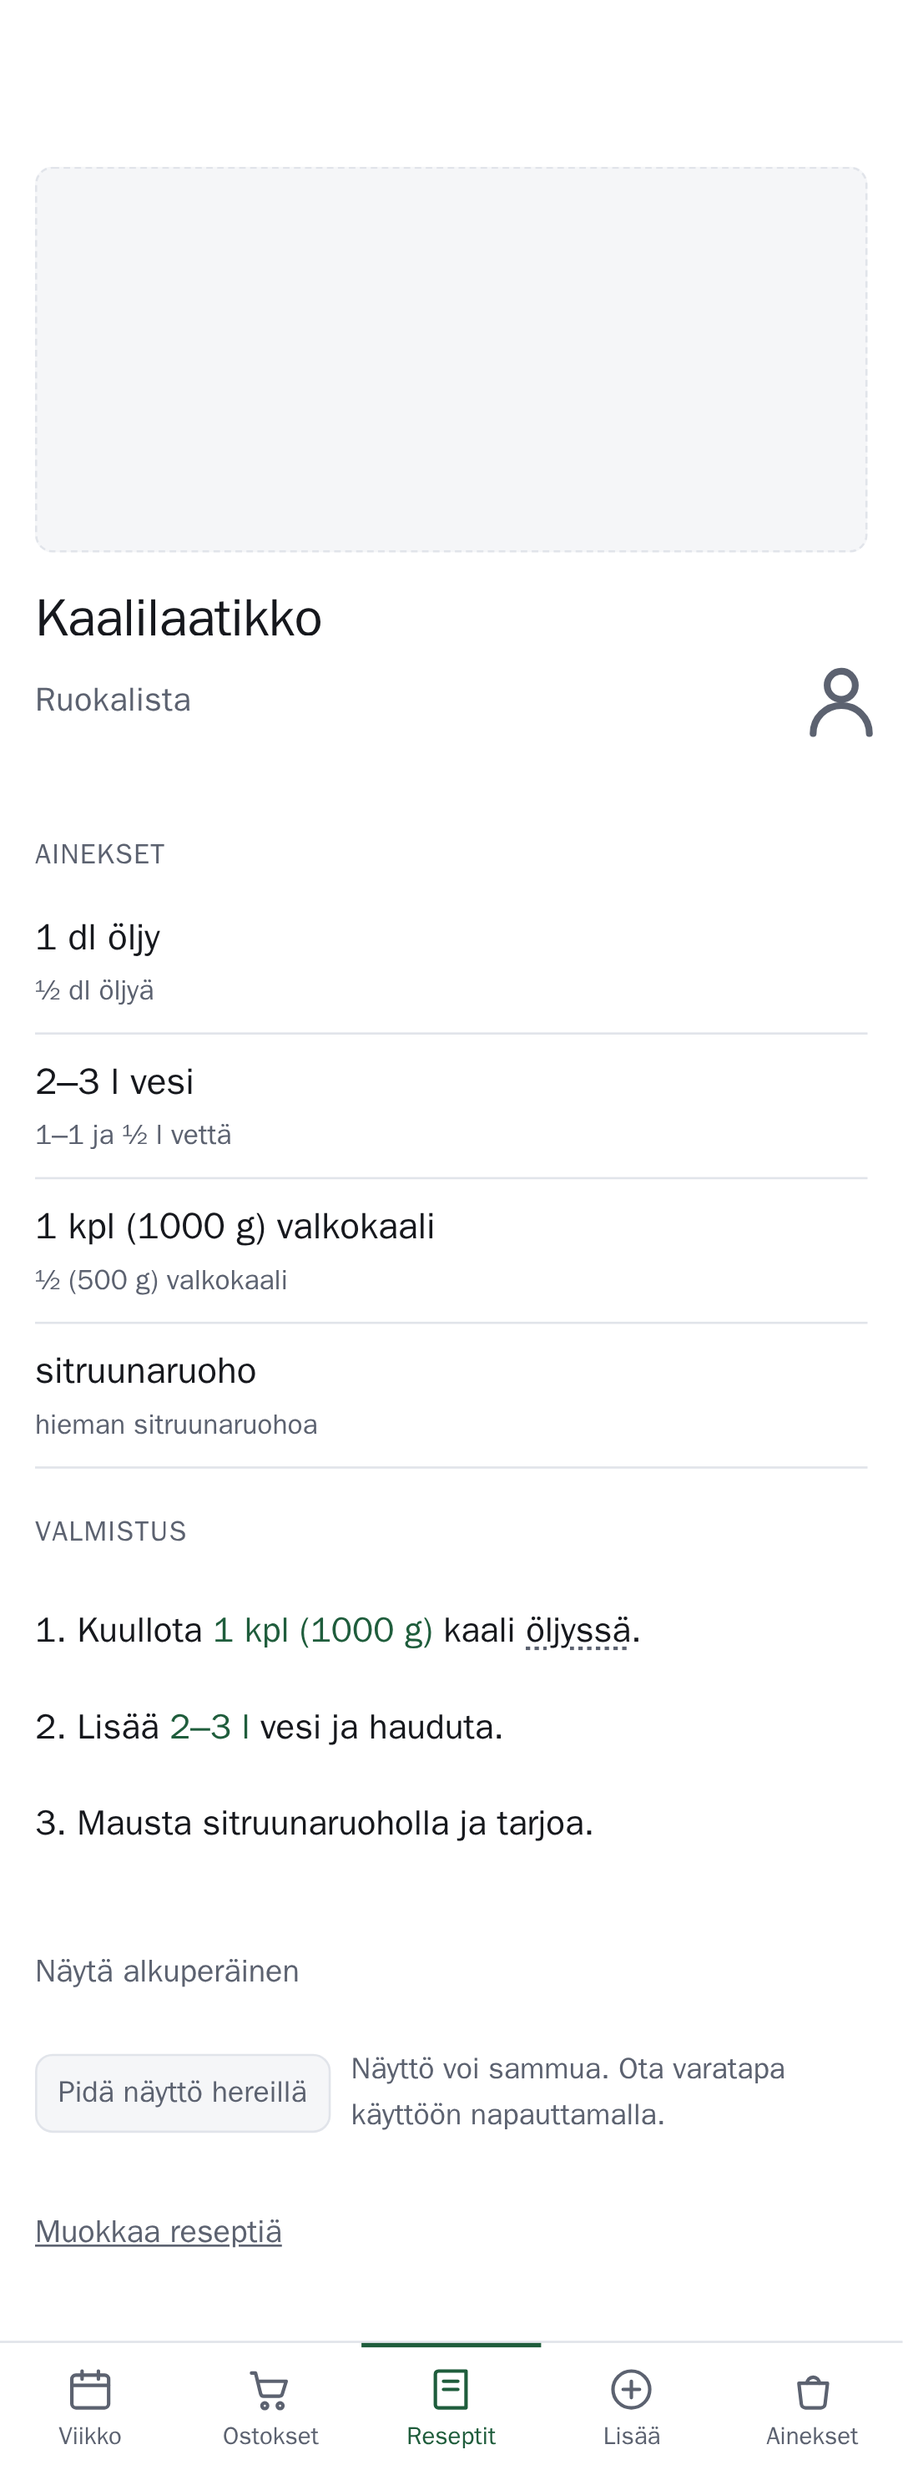
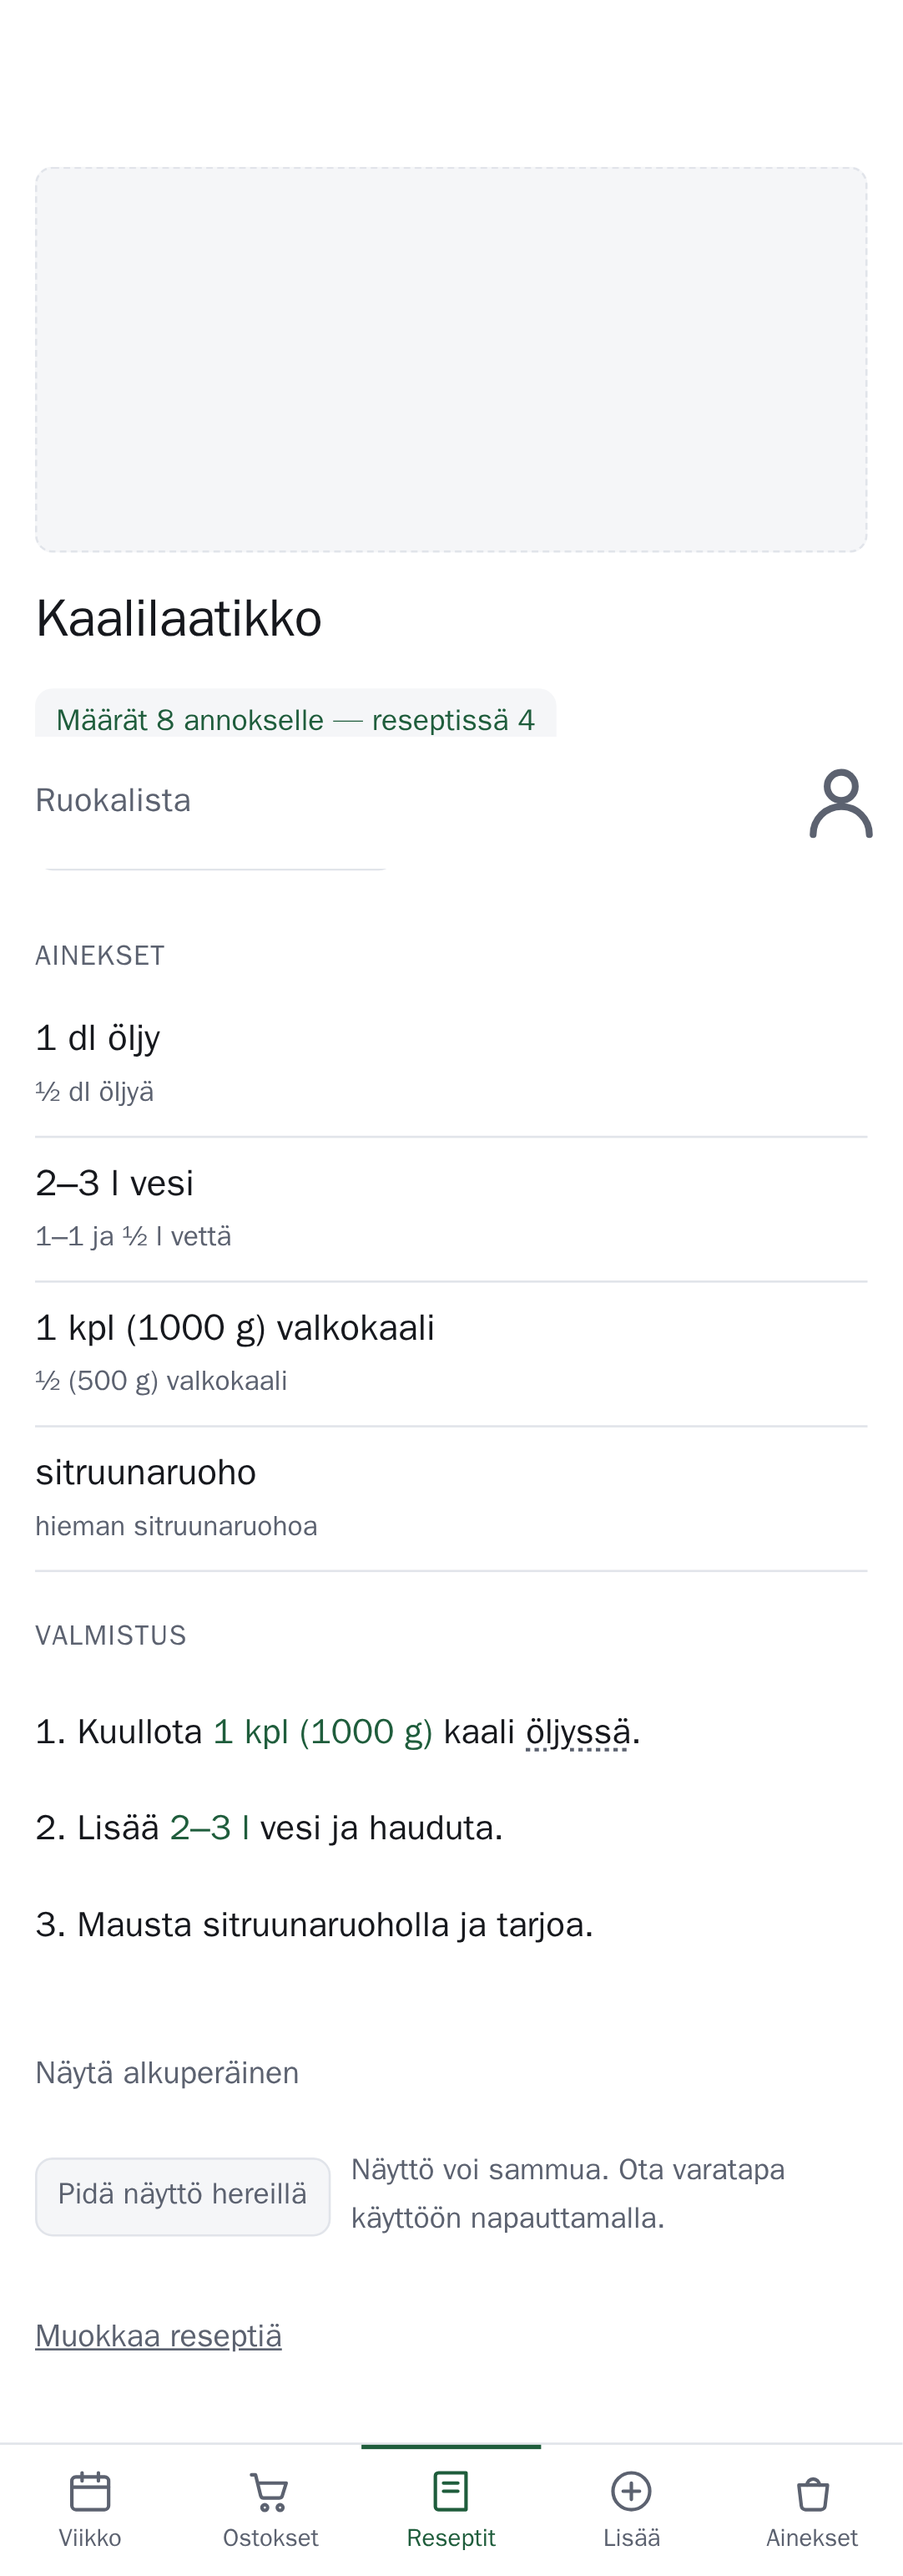
Reveal every recipe amount at once (#135)

diff --git a/tests/ingredient-mentions.spec.ts b/tests/ingredient-mentions.spec.ts
@@ -40,6 +40,20 @@ function mention(
     .filter({ has: page.locator(".mention-word", { hasText: word }) });
 }
 
+async function expectAllMentionAmounts(
+  page: import("@playwright/test").Page,
+  visible: boolean,
+) {
+  const amounts = page.locator(".mention-amount");
+  const count = await amounts.count();
+  expect(count).toBeGreaterThan(0);
+  for (let index = 0; index < count; index += 1) {
+    await (visible
+      ? expect(amounts.nth(index)).toBeVisible()
+      : expect(amounts.nth(index)).toBeHidden());
+  }
+}
+
 test("a mention starts closed and opens on a tap", async ({ page }) => {
   await page.goto("/recipes/1");
 
@@ -76,6 +90,82 @@ test("tapping again hides it, and mentions toggle independently", async ({
   await kaali.locator("label").click();
   await expect(kaali.locator(".mention-amount")).toBeHidden();
   await expect(oljy.locator(".mention-amount")).toBeVisible();
+});
+
+test("one keyboard toggle layers every amount over individual choices", async ({
+  page,
+}) => {
+  await page.goto("/recipes/1");
+
+  const revealAllByName = page.getByRole("checkbox", {
+    name: "Näytä kaikki määrät",
+  });
+  const revealAll = page.locator(".reveal-all");
+  await revealAllByName.focus();
+  await expect(revealAll).toBeFocused();
+  await revealAll.press("Space");
+  await expectAllMentionAmounts(page, true);
+  await expect(page.getByText("Piilota määrät", { exact: true })).toBeVisible();
+
+  // An individual choice remains its own state even while the global layer
+  // already makes every amount visible.
+  const kaali = mention(page, "kaali");
+  await kaali.locator("label").click();
+  await revealAll.press("Space");
+  await expect(kaali.locator(".mention-amount")).toBeVisible();
+  await expect(mention(page, "öljyssä").locator(".mention-amount")).toBeHidden();
+});
+
+test("one toggle covers a multipart dish and survives back-forward restore", async ({
+  page,
+}) => {
+  await page.goto("/recipes/3");
+
+  const revealAllByName = page.getByRole("checkbox", {
+    name: "Näytä kaikki määrät",
+  });
+  const revealAll = page.locator(".reveal-all");
+  await expect(revealAllByName).toBeVisible();
+  await page.locator(".reveal-all-label").click();
+  await expect(revealAll).toBeChecked();
+  const partAmounts = page.locator(".part .mention-amount");
+  expect(await partAmounts.count()).toBeGreaterThan(0);
+  for (let index = 0; index < await partAmounts.count(); index += 1) {
+    await expect(partAmounts.nth(index)).toBeVisible();
+  }
+  await expect(page.locator(".reveal-all")).toHaveCount(1);
+
+  await page.goto("/recipes");
+  await page.goBack();
+  await expect(page.locator(".reveal-all")).toBeChecked();
+  await expect(page.locator(".part .mention-amount")).toBeVisible();
+});
+
+test.describe("without JavaScript", () => {
+  test.use({ javaScriptEnabled: false });
+
+  test("the recipe-wide toggle still reveals and hides every amount", async ({
+    page,
+  }) => {
+    await page.goto("/recipes/1");
+
+    const revealAllByName = page.getByRole("checkbox", {
+      name: "Näytä kaikki määrät",
+    });
+    const revealAll = page.locator(".reveal-all");
+    await expect(revealAllByName).toBeVisible();
+    await page.locator(".reveal-all-label").click();
+    await expect(revealAll).toBeChecked();
+    await expectAllMentionAmounts(page, true);
+
+    await page.locator(".reveal-all-label").click();
+    await expect(revealAll).not.toBeChecked();
+    await expectAllMentionAmounts(page, false);
+
+    const kaali = mention(page, "kaali");
+    await kaali.locator("label").click();
+    await expect(kaali.locator(".mention-amount")).toBeVisible();
+  });
 });
 
 test("the revealed amount is this meal's, not the page's", async ({ page }) => {

diff --git a/src/recipes.ts b/src/recipes.ts
@@ -540,6 +540,7 @@ export function recipeImage(
 
 function recipeBody(recipe: Recipe, portions: number | null): Raw {
   const factor = scaleFactor(recipe.yieldPortions, portions);
+  const canRevealAmounts = hasRevealableMention(recipe, factor);
 
   return html`${recipeImage(recipe)}
     <h1>${recipe.title}</h1>
@@ -554,6 +555,17 @@ function recipeBody(recipe: Recipe, portions: number | null): Raw {
           ? `${recipe.yieldPortions} annosta`
           : `Määrät ${portions} annokselle — reseptissä ${recipe.yieldPortions}`}
     </p>
+
+    ${canRevealAmounts
+      ? html`<input
+            type="checkbox"
+            id="reveal-all-amounts"
+            class="reveal-all"
+          /><label for="reveal-all-amounts" class="reveal-all-label"
+            ><span class="reveal-all-show">Näytä kaikki määrät</span
+            ><span class="reveal-all-hide">Piilota määrät</span></label
+          >`
+      : ""}
 
     ${recipe.parts.length === 0
       ? body(recipe, factor)
@@ -585,6 +597,22 @@ function recipeBody(recipe: Recipe, portions: number | null): Raw {
     </p>`;
 }
 
+/** Whether this dish or any of its parts has an amount the toggle can reveal. */
+function hasRevealableMention(recipe: Recipe, factor: number | null): boolean {
+  const amounts = amountsByIngredient(recipe.lines, factor);
+  const thisRecipeHasOne = recipe.steps.some((step) =>
+    resolveMentions(step.text, step.refs).some(
+      (segment) =>
+        segment.kind === "mention" &&
+        (amounts.get(segment.ingredientId) ?? "") !== "",
+    )
+  );
+
+  return thisRecipeHasOne || recipe.parts.some(
+    (part) => hasRevealableMention(part, factor),
+  );
+}
+
 /**
  * A mention should read as the sentence it is part of, not as a button — the
  * instruction is the thing being read, and a row of chips through the middle of
@@ -599,9 +627,21 @@ const MENTION_STYLE = html`<style>
   .mention { display: inline; }
   /* Off-screen rather than display:none — a hidden control cannot be focused,
      and this one is how a keyboard reaches the amount. */
-  .mention-toggle {
+  .mention-toggle, .reveal-all {
     position: absolute; width: 1px; height: 1px;
     margin: 0; padding: 0; opacity: 0; pointer-events: none;
+  }
+  .reveal-all-label {
+    display: inline-flex; align-items: center; min-height: var(--tap-compact);
+    padding: 0 .75rem; margin: 0 0 .65rem; cursor: pointer;
+    border: 1px solid var(--edge); border-radius: var(--radius);
+    background: var(--surface); font-weight: 600;
+  }
+  .reveal-all-hide { display: none; }
+  .reveal-all:checked + .reveal-all-label .reveal-all-show { display: none; }
+  .reveal-all:checked + .reveal-all-label .reveal-all-hide { display: inline; }
+  .reveal-all:focus-visible + .reveal-all-label {
+    outline: 2px solid var(--accent); outline-offset: 2px;
   }
   .mention > label {
     display: inline; cursor: pointer;
@@ -613,6 +653,9 @@ const MENTION_STYLE = html`<style>
     color: var(--accent); margin-right: .3em;
   }
   .mention-toggle:not(:checked) + label .mention-amount { display: none; }
+  .reveal-all:checked ~ * .mention-toggle:not(:checked) + label .mention-amount {
+    display: inline;
+  }
   .mention-toggle:checked + label { text-decoration: none; }
   .mention-toggle:focus-visible + label {
     outline: 2px solid var(--accent); outline-offset: 2px; border-radius: .2rem;

diff --git a/tests/screenshots.spec.ts b/tests/screenshots.spec.ts
@@ -177,8 +177,8 @@ test.describe("signed in", () => {
   });
 
   /**
-   * Issue #120's whole surface, in two pictures: the method as it reads by
-   * default, and the same method with two of its ingredients tapped open.
+   * Issues #120 and #135's whole surface: the method as it reads by default,
+   * with two ingredients tapped open, and with the recipe-wide layer open.
    * Cooking for eight rather than four, so the revealed figures are visibly
    * this meal's and not the page's.
    */
@@ -203,6 +203,15 @@ test.describe("signed in", () => {
     await expect(vesi.locator(".mention-amount")).toBeVisible();
     await page.screenshot({
       path: `${SHOTS}/39-step-mentions-open.png`,
+      fullPage: true,
+    });
+
+    await page.locator(".reveal-all-label").click();
+    await expect(page.locator(".reveal-all")).toBeChecked();
+    await expect(page.locator(".mention-amount:visible")).toHaveCount(3);
+    await expect(page.getByText("Piilota määrät", { exact: true })).toBeVisible();
+    await page.screenshot({
+      path: `${SHOTS}/48-step-mentions-all-open.png`,
       fullPage: true,
     });
   });

diff --git a/docs/screenshots/README.md b/docs/screenshots/README.md
@@ -55,3 +55,4 @@ Regenerate after a change that alters a screen:
 | `44-admin-member-refused.png` | Proposed refusal when an admin's Google sub is repointed — admin travels with the sub, so this stays an operator action |
 | `45-admin-household-after-removal.png` | Proposed household after an established member is removed — no refusal, and the household stands |
 | `46-recipes-after-removal.png` | Proposed recipe list after that removal: the recipes are still there and still credited to the person who wrote them |
+| `48-step-mentions-all-open.png` | Proposed recipe-wide amount toggle with every ingredient amount revealed in the preparation sentences |
